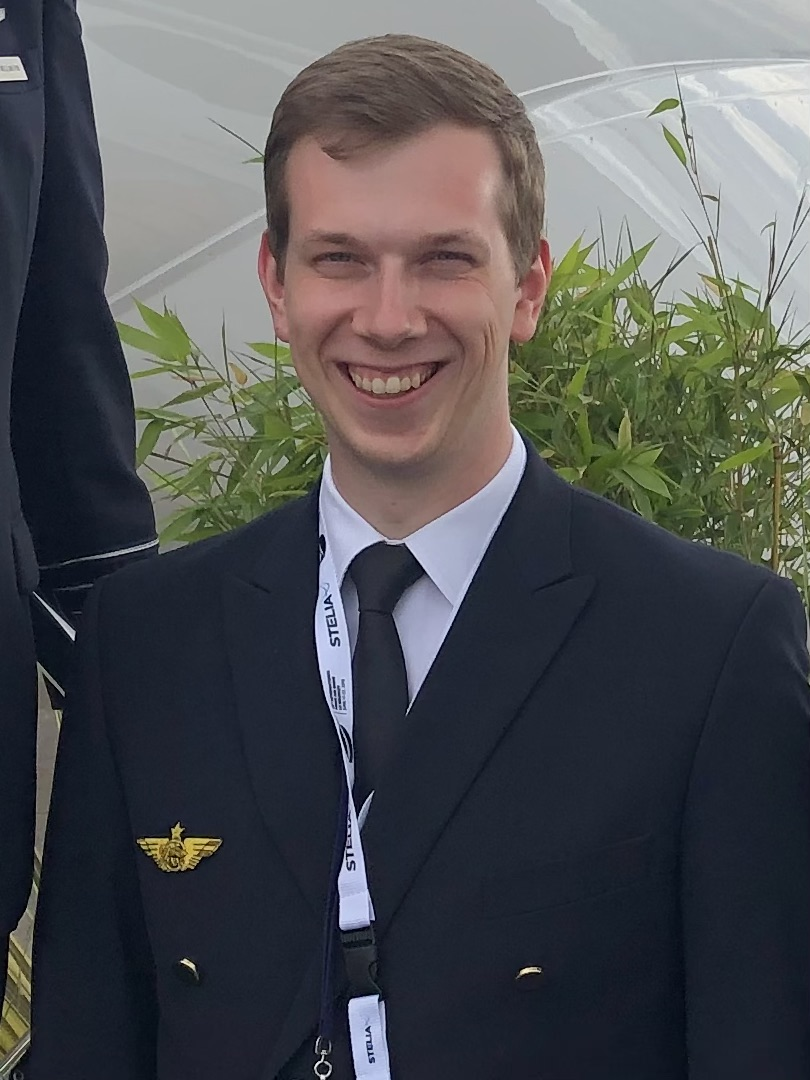
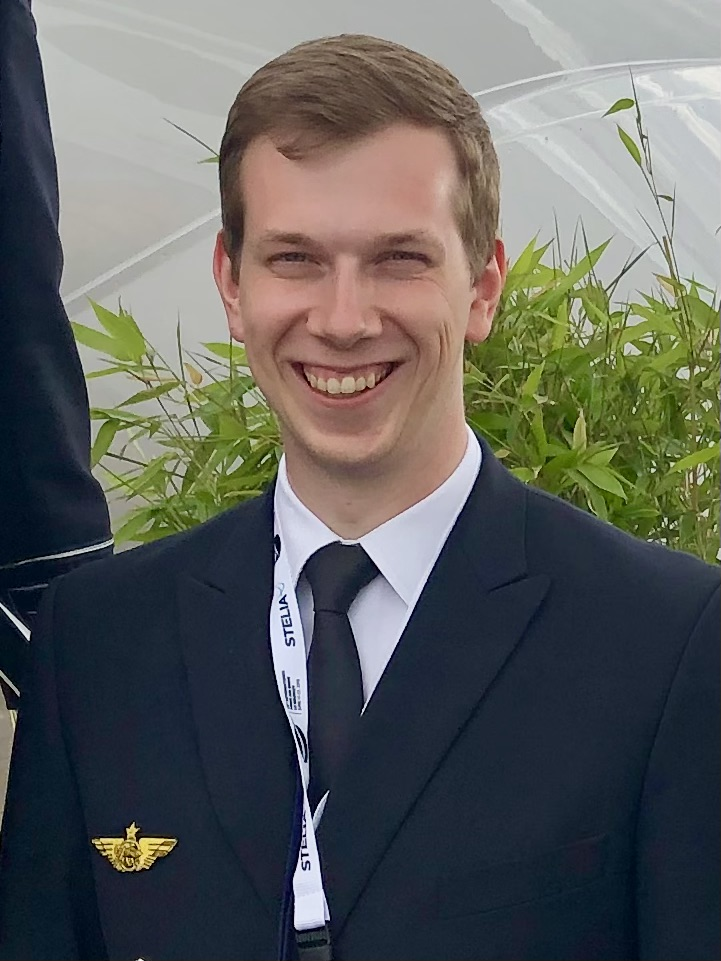
WIP

diff --git a/resources/views/leadership.blade.php b/resources/views/leadership.blade.php
@@ -213,7 +213,7 @@
                     <x-leadership.card-simple
                         name="Lilian Berquier"
                         title="Responsable Promotion EPL/S 2018"
-                        photo="{{ asset('media/leadership/adrian-lucq-bibiloni.jpg') }}"
+                        photo="{{ asset('media/leadership/lilian.berquier.jpg') }}"
                     />
 
                     <x-leadership.card-simple

diff --git a/resources/views/components/navbar.blade.php b/resources/views/components/navbar.blade.php
@@ -100,7 +100,7 @@
     </div>
 
     <div
-        class="absolute top-0 inset-x-0 p-2 origin-top-right md:hidden"
+        class="absolute z-10 top-0 inset-x-0 p-2 origin-top-right md:hidden"
         x-show="mobileMenuOpen"
         x-transition:enter="transition ease-out duration-200"
         x-transition:enter-start="opacity-0 scale-95"
